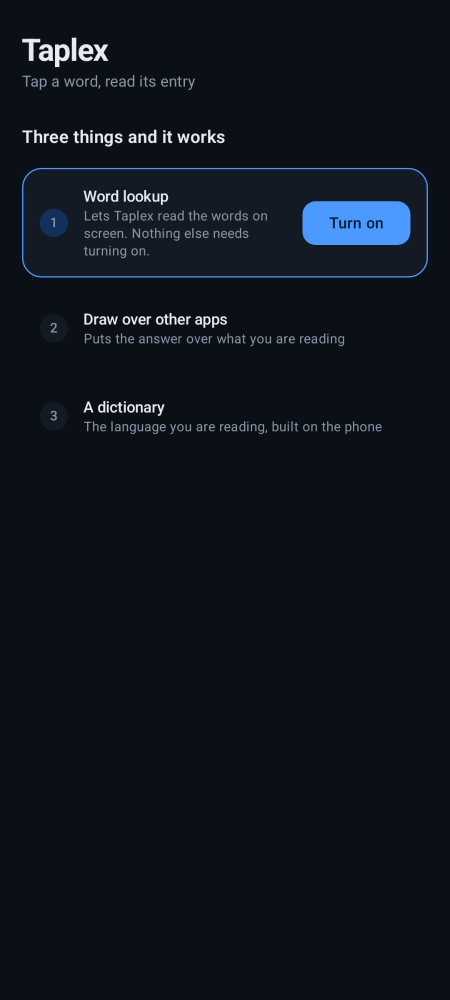
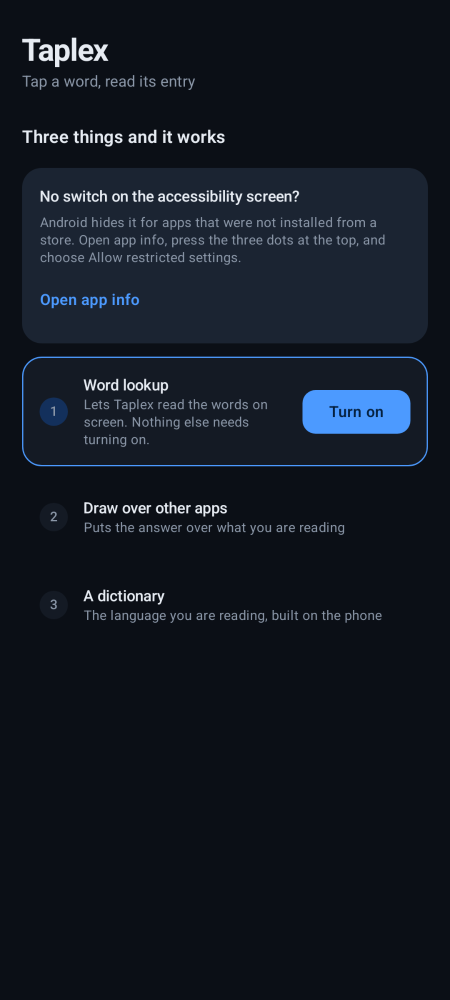
Stop asking for the accessibility button, which took the on switch with it
A service that requests the accessibility button is presented as a shortcut
rather than as a service: its page in Settings offers "shortcut, off" and no
switch to turn the service on, so on a phone where that shortcut has never
been set up there is no way to turn word lookup on at all. Phonetix, which
works on the same phone, does not ask for the button; that was the only
difference between them. Dropping the flag brings the "Use Taplex word lookup"
switch back, confirmed on a device.

Nothing is lost with it: the quick settings tile is the trigger, the circle
arms itself, and the shortcut row is still there for anyone who wants to bind
the button by hand.

The icon was also scaled to fill the mask edge to edge, with none of the
margin every other icon on a home screen has.

Claude-Session: https://claude.ai/code/session_017qWP9gfbjBjBVc2A591nr4

diff --git a/app/src/main/java/de/tieo/taplex/TaplexScreen.kt b/app/src/main/java/de/tieo/taplex/TaplexScreen.kt
@@ -94,7 +94,8 @@ data class ScreenActions(
     val onHoverChanged: (Boolean) -> Unit = {},
     val onQueryChanged: (String) -> Unit = {},
     val onSearch: () -> Unit = {},
-    val onAddTile: (() -> Unit)? = null
+    val onAddTile: (() -> Unit)? = null,
+    val onOpenAppInfo: () -> Unit = {}
 )
 
 @Composable
@@ -172,6 +173,12 @@ private fun androidx.compose.foundation.lazy.LazyListScope.setup(
         else -> Unit
     }
 
+    // Android hides the switch for an app that was not installed from a store, and hides
+    // the reason with it, so the step that cannot be finished says where the block is.
+    if (!state.lookupEnabled) {
+        item { Blocked(actions.onOpenAppInfo) }
+    }
+
     itemsIndexed(steps) { index, step ->
         SetupStep(
             number = index + 1,
@@ -186,6 +193,32 @@ private fun androidx.compose.foundation.lazy.LazyListScope.setup(
                 else -> actions.onAddDictionary
             }
         )
+    }
+}
+
+/** Why the switch may not be there at all, and the one screen that unblocks it. */
+@Composable
+private fun Blocked(onOpenAppInfo: () -> Unit) {
+    Card(
+        colors = CardDefaults.cardColors(
+            containerColor = MaterialTheme.colorScheme.secondaryContainer
+        ),
+        shape = RoundedCornerShape(18.dp)
+    ) {
+        Column(Modifier.padding(16.dp), verticalArrangement = Arrangement.spacedBy(6.dp)) {
+            Text(
+                stringResource(R.string.restricted_title),
+                style = MaterialTheme.typography.titleSmall
+            )
+            Text(
+                stringResource(R.string.restricted_why),
+                style = MaterialTheme.typography.bodySmall,
+                color = MaterialTheme.colorScheme.onSurfaceVariant
+            )
+            TextButton(onClick = onOpenAppInfo, contentPadding = PaddingValues(0.dp)) {
+                Text(stringResource(R.string.open_app_info))
+            }
+        }
     }
 }
 

diff --git a/app/src/main/java/de/tieo/taplex/MainActivity.kt b/app/src/main/java/de/tieo/taplex/MainActivity.kt
@@ -140,6 +140,14 @@ private fun Main() {
                     scope.launch { answer = lookup.explain(term) }
                 }
             },
+            onOpenAppInfo = {
+                context.startActivity(
+                    Intent(
+                        Settings.ACTION_APPLICATION_DETAILS_SETTINGS,
+                        Uri.parse("package:" + context.packageName)
+                    )
+                )
+            },
             onAddTile = {
                 // The tile is the trigger that needs nothing else turned on. Asking for it
                 // here is the only way to add one without walking someone through editing
